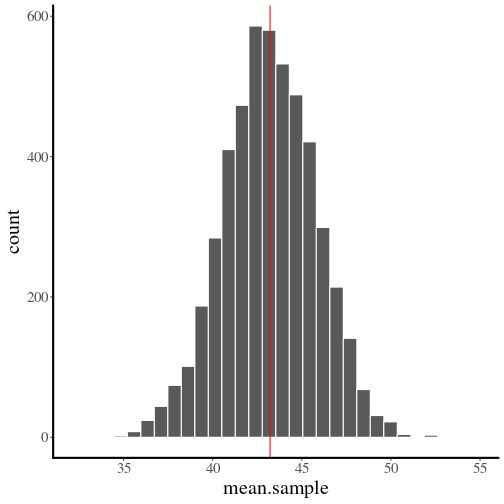
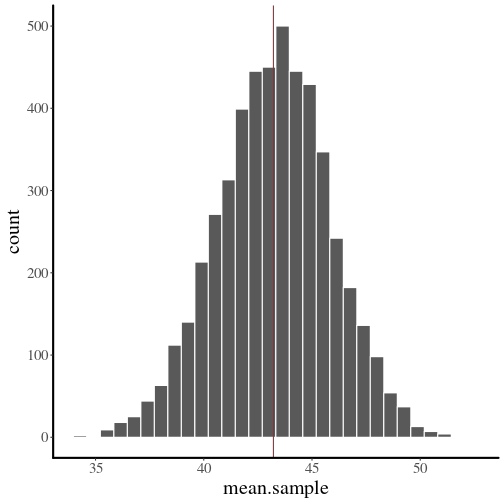
added module 4 and 5

diff --git a/Slides/Module4.html b/Slides/Module4.html
@@ -3,7 +3,7 @@
   <head>
     <title>Module 4: Inference on a normal population</title>
     <meta charset="utf-8" />
-    <meta name="author" content="Jake Ferguson" />
+    <meta name="author" content="Jake Ferguson (jakeferg@hawaii.edu)" />
     <link href="libs/remark-css-0.0.1/default.css" rel="stylesheet" />
     <link href="libs/remark-css-0.0.1/metropolis.css" rel="stylesheet" />
     <link href="libs/remark-css-0.0.1/metropolis-fonts.css" rel="stylesheet" />
@@ -13,7 +13,7 @@
 class: center, middle, inverse, title-slide
 
 # Module 4: Inference on a normal population
-### Jake Ferguson
+### Jake Ferguson (<a href="mailto:jakeferg@hawaii.edu" class="email">jakeferg@hawaii.edu</a>)
 
 ---
 
@@ -54,7 +54,7 @@ A variable whose outcome depends on a random phenomenon is called a **random var
 
 
 ```r
-x &lt;- sample(1:20, 100, replace=T)
+x &lt;- sample(x=1:20, size=100, replace=T)
 ```
 
 &lt;img src="Module4_files/figure-html/unnamed-chunk-4-1.png" width="60%" style="display: block; margin: auto;" /&gt;
@@ -69,7 +69,7 @@ Many measurements we make and statistics are  a sum of random variables.
 ```r
 x &lt;- numeric(10000)
 for(i in 1:10000) {
-  x[i] &lt;- sum(sample(1:20, 100, replace=T))
+  x[i] &lt;- sum(sample(x=1:20, size=100, replace=T))
 }
 ```
 
@@ -107,7 +107,7 @@ mean(x)
 ```
 
 ```
-## [1] 1050.277
+## [1] 1050.779
 ```
 
 ```r
@@ -115,7 +115,7 @@ var(x)
 ```
 
 ```
-## [1] 3394.525
+## [1] 3239.528
 ```
 
 ```r
@@ -123,14 +123,14 @@ sd(x) #sqrt(var)
 ```
 
 ```
-## [1] 58.26255
+## [1] 56.91685
 ```
 
 ---
 class: inverse, middle
 
-# Excercise 4A
-
+# Exercise 4A
+-------
 ## Estimating means and standard deviations
 
 ---
@@ -163,13 +163,6 @@ $$ \sigma_\bar{x} = \frac{s}{\sqrt{n}} $$
 &lt;img src="Module4_files/figure-html/unnamed-chunk-11-1.png" width="70%" style="display: block; margin: auto;" /&gt;
 
 ---
-class: inverse, middle
-
-# Excercise 4B
-
-## Simulating sampling distributions
-
----
 # Inference with known `\(\sigma\)`
 
 We and estimate the mean horn length of a unicorn, `\(\bar{x}\)`. The standard error determines how much uncertainy is in `\(\bar{x}\)`. How confident can we be that the population horn average (i.e., the true value) is close to our estimate?
@@ -190,9 +183,9 @@ The Hawai'ian monk seal data. Calculated the confidence interval of the behavior
 .pull-left[
 
 ```r
-xbar &lt;- mean(diff.dat)
-n &lt;- length(diff.dat)
-se &lt;- sd(diff.dat)/sqrt(n)
+xbar &lt;- mean(monk.dat$Difference)
+n &lt;- length(monk.dat$Difference)
+se &lt;- sd(monk.dat$Difference)/sqrt(n)
 
 xbar - qnorm(0.975)*se
 ```
@@ -221,7 +214,7 @@ xbar + qnorm(0.975)*se
 
 Given a sample with mean `\(\bar{x}\)` and standard error `\(\sigma_\bar{x}\)`, the z-statistic is normally distributed
 
-$$ Z = \frac{\bar{x} - \mu}{\sigma_\bar{x}}$$
+$$ Z = \frac{\bar{x} - H_0}{\sigma_\bar{x}}$$
 
 ### Example
 
@@ -255,8 +248,8 @@ pnorm(q=0.48, lower.tail=F)
 ---
 class: inverse, middle
 
-# Excercise 4C
-
+# Excercise 4B
+------------
 ## Calculating confidence intervals, z-scores, and p-values 
 
 ---
@@ -270,7 +263,7 @@ class: inverse, middle
 ---
 # The t-distribution
 
-`$$t = \frac{\bar{x} - \mu}{s}$$`
+`$$t = \frac{\bar{x} - H_0}{s}$$`
 
 
 &lt;img src="Module4_files/figure-html/unnamed-chunk-18-1.png" width="90%" style="display: block; margin: auto;" /&gt;
@@ -285,9 +278,9 @@ The additional uncertainty in the t-distribution influences the confidence inter
 .pull-left[
 
 ```r
-xbar &lt;- mean(diff.dat)
-n &lt;- length(diff.dat)
-se &lt;- sd(diff.dat)/sqrt(n)
+xbar &lt;- mean(monk.dat$Difference)
+n &lt;- length(monk.dat$Difference)
+se &lt;- sd(monk.dat$Difference)/sqrt(n)
 
 xbar - qt(0.975, df=n-1)*se
 ```
@@ -315,8 +308,8 @@ Compare this to the interval that assumes `\(s\)` is known: (-0.0327, 0.0078)
 ---
 class: inverse, middle
 
-# Excercise 4D
-
+# Excercise 4C
+-------------
 ## Calculating Wald confidence intervals
 
 ---
@@ -333,7 +326,7 @@ Do this by hand
 
 
 ```r
-xbar &lt;- mean(diff.dat)
+xbar &lt;- mean(monk.dat$Difference)
 xbar
 ```
 
@@ -342,9 +335,9 @@ xbar
 ```
 
 ```r
-n &lt;- length(diff.dat)
-se &lt;- sd(diff.dat)/sqrt(n)
-t &lt;- (mean(diff.dat) - 0)/se
+n &lt;- length(monk.dat$Difference)
+se &lt;- sd(monk.dat$Difference)/sqrt(n)
+t &lt;- (mean(monk.dat$Difference) - 0)/se
 t
 ```
 
@@ -365,14 +358,14 @@ t
 Or use the R function `t.test`:
 
 ```r
-t.test(diff.dat)
+t.test(x=monk.dat$Difference)
 ```
 
 ```
 ## 
 ## 	One Sample t-test
 ## 
-## data:  diff.dat
+## data:  monk.dat$Difference
 ## t = -1.206, df = 27, p-value = 0.2383
 ## alternative hypothesis: true mean is not equal to 0
 ## 95 percent confidence interval:
@@ -444,8 +437,8 @@ t.test(drinkingMinutes ~ glassShape, data=glass.dat)
 ---
 class: inverse, middle
 
-# Excercise 4E
-
+# Excercise 4D
+--------------
 ## One- and two-sample t-tests
 
 ---

diff --git a/Slides/Module5.html b/Slides/Module5.html
@@ -33,7 +33,7 @@ class: center, middle, inverse, title-slide
 ---
 # Sleep in mammals
 
-Sleep is characterized by either slow wave (non-dreaming) or drapid eye movement (dreaming), with wide variability in theamount of both types of sleep.
+Sleep is characterized by either slow wave (non-dreaming) or rapid eye movement (dreaming), with wide variability in the amount of both types of sleep.
 
 * Roe Deer sleep &lt; 3 hours/day
 * Little Brown bat sleeps close to 20 hours per day
@@ -48,7 +48,7 @@ Why? What is the purpose of sleep?
 .footnote[Allison, Truett and Cicchetti, Domenic V. (1976), Sleep in Mammals: Ecological and Constitutional Correlates, Science, November 12, vol. 194]
 
 ---
-# Continuous response, continuous predictor
+# Simple linear regression
 
 Is the total amount of sleep related to an animals brain weight?
 
@@ -117,7 +117,6 @@ The correlation matrix, `\(\boldsymbol{\Sigma}\)`, contains each pairwise correl
 \rho_{ZX} &amp; \rho_{ZY} &amp;  1 
 \end{array} \right]$$`
 
-We are often interested primarily in correlations between predictor and the response, but we will discuss correlations between predictors as well.
 
 ---
 # Illustrating correlation matrices
@@ -132,7 +131,7 @@ library(corrplot)
 ```
 
 ```r
-M &lt;- cor(sleep.dat[,3:10], use="pairwise.complete") #extract numeric responses
+M &lt;- cor(x=sleep.dat[,3:10], use="pairwise.complete") #extract numeric responses
 corrplot.mixed(M)
 ```
 
@@ -150,7 +149,11 @@ class: inverse, middle
 
 &lt;br&gt;
 
-`\(r\)` tells us how strong a linear association is. It can't tell us how fast the response changes with changes in the predictor.
+`\(r\)` tells us how strong a linear association is. It can't 
+
+- tell us how fast the response changes with changes in the predictor.
+- tell us about nonlinear associations with the predictor.
+- tell us whether something is biologically important
 
 &lt;br&gt;
 
@@ -159,7 +162,7 @@ class: inverse, middle
 ---
 # Simple linear regression
 
-The goal is to fit a line that could have genererated the data. Estimates the **intercept** and slope of the line **slope**, as well as the **variance** in the residuals. 
+The goal is to fit a line that could have genererated the data. Estimates the **intercept** and **slope** of the line, as well as the **variance** in the residuals. 
 
 $$
 `\begin{align*}
@@ -171,7 +174,8 @@ $$
 
 &lt;img src="Module5_files/figure-html/unnamed-chunk-7-1.png" width="60%" style="display: block; margin: auto;" /&gt;
 
-Fitting works by trying to minimize `\(\sigma^2\)`.
+
+**Response** variable goes on the y-axis, **predictor** variable on the x-axis
 
 ---
 # Fitting `lm`'s in R
@@ -216,7 +220,7 @@ summary(sleep.lm)
 ```
 
 
-- df (degrees of freedom used in the t-tests, df=n-1-#betas)
+- df (degrees of freedom used in the t-tests, df=n - #betas - 1)
 
 ```
 ## [1] 36
@@ -435,7 +439,7 @@ plot_model(monet.mod, type="pred", terms=c("SIZE", "HOUSE"), show.data=TRUE)
 ---
 # Interactions
 
-I the previous model the intercept varied by auction house. In this model **both** the intercept and slope vary.
+In the previous model the intercept varied by auction house. In this model **both** the intercept and slope vary.
 
 
 ```r
@@ -453,7 +457,7 @@ coef(summary(monet.mod2))
 ## SIZE:HOUSE3 -0.0025995930 0.0025613783 -1.0149196 3.107471e-01
 ```
 
-&lt;img src="Module5_files/figure-html/unnamed-chunk-24-1.png" width="60%" style="display: block; margin: auto;" /&gt;
+&lt;img src="Module5_files/figure-html/unnamed-chunk-24-1.png" width="50%" style="display: block; margin: auto;" /&gt;
 
 ---
 class: inverse, middle
@@ -615,7 +619,13 @@ The Tukey-test uses the t-statistic (mean/SE) but the p-value controls for the f
 knitr::include_graphics("https://upload.wikimedia.org/wikipedia/en/e/e9/John_Tukey.jpg")
 ```
 
-&lt;img src="https://upload.wikimedia.org/wikipedia/en/e/e9/John_Tukey.jpg" style="display: block; margin: auto 0 auto auto;" /&gt;
+![](https://upload.wikimedia.org/wikipedia/en/e/e9/John_Tukey.jpg)&lt;!-- --&gt;
+
+.footnote[
+image: https://en.wikipedia.org/wiki/John_Tukey
+
+good wikipedia article: https://en.wikipedia.org/wiki/Tukey%27s_range_test
+]
 
 ---
 # Applying Tukey's test
@@ -649,11 +659,6 @@ TukeyHSD(aov(egg_length ~ host_species, cuckoo.dat))
 ## Wren-Robin                 -1.44500000 -2.392271433 -0.49772857 0.0003183
 ## Wren-Tree Pipit            -1.96000000 -2.922428738 -0.99757126 0.0000006
 ```
-.footnote[
-image: https://en.wikipedia.org/wiki/John_Tukey
-
-good wikipedia article: https://en.wikipedia.org/wiki/Tukey%27s_range_test
-]
 
 ---
 # A word about anova
